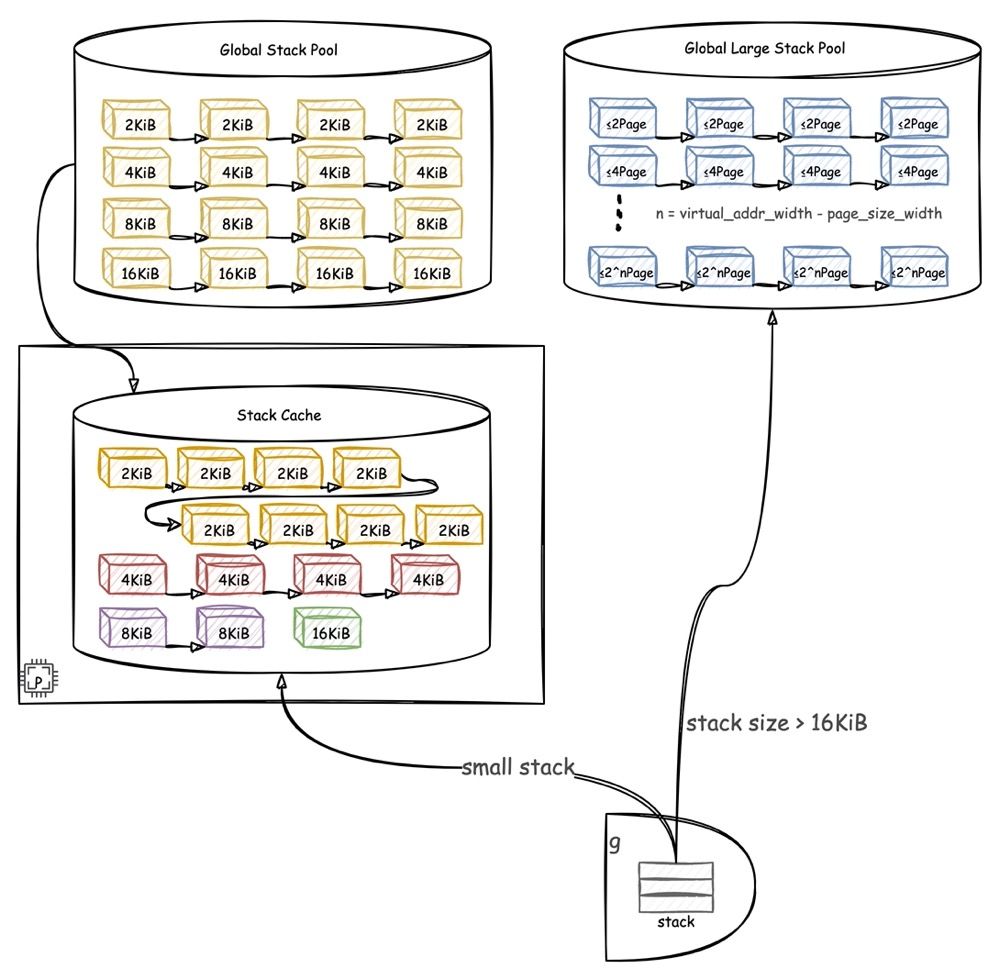
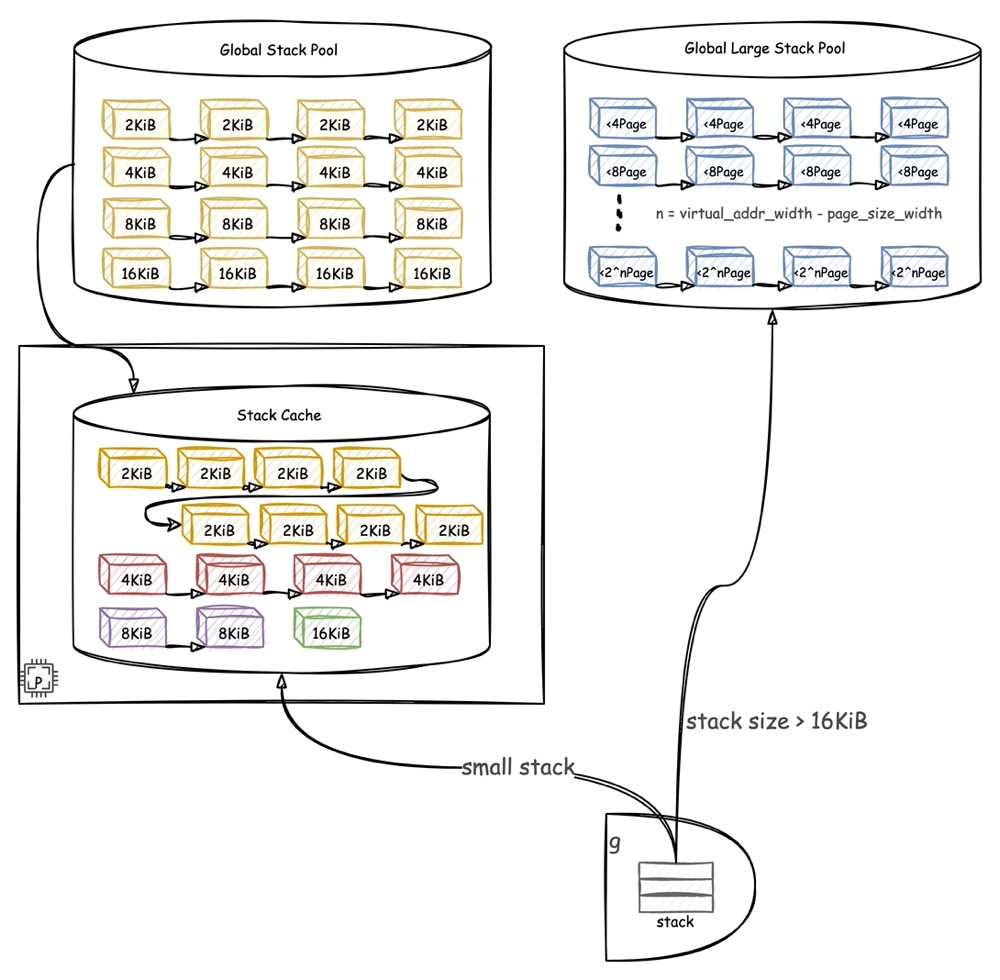
docs: update go runtime storage

diff --git a/source/_posts/go-runtime-storage.md b/source/_posts/go-runtime-storage.md
@@ -15,11 +15,92 @@ categories:
 
 <!-- more -->
 
+内存管理，主要可以分为两部分：内存分配和内存回收。
+
+在 Go 语言中，所有需要内存的地方，除了编译期可以确定的常量、变量值以外，其他的包括 goroutine 私有栈，堆以及一些 runtime 的结构，都需要在运行期间动态进行分配。相对应的，当内存不再使用的时候，也需要动态的回收。
+
+不过 Go 语言的内存分配完全不需要用户操心，Runtime 会帮助用户处理好与内存管理相关的一切。
+
+本文会先讨论 Go Runtime 使用的动态内存分配器；之后介绍所有需要动态分配内存的地方如栈、堆等等，具体是如何使用内存分配器分配内存的；关于内存的动态回收，将放在最后一部分讲解。
 
 
-## 1. Go 的内存划分
 
-### 1.1 进程内存
+## 1. 动态内存分配器
+
+### 1.1 为什么需要动态内存分配器？
+
+在讨论动态内存分配之前，我们可以先回顾一下操作系统的内存管理，并解释为什么不能简单的使用系统调用来管理进程内存。
+
+
+
+#### 虚拟内存抽象
+
+为了能让不同的进程能优雅的共享同一套存储硬件，多任务操作系统普遍采用了地址空间 + 虚拟内存的办法，对物理内存进行了抽象。
+
+<img src="https://upload.wikimedia.org/wikipedia/commons/6/6e/Virtual_memory.svg" style="zoom:50%;" />
+
+这种抽象的本质是把物理内存视为磁盘的缓存，而把磁盘视为主存。
+
+虚拟内存为多进程的并发执行带来了如下的好处：
+
+- 通过地址映射（mapping）技术，可以支持多进程独占地址空间的同时还能共享同一套硬件
+  - 每个进程都拥有自己的页表，用于记录进程虚拟地址与物理内存地址的映射关系
+  - 进程可以自由的在整个地址空间中申请并使用内存，而不必担心与其他进程产生冲突
+
+- 通过交换（swaping）技术，虚拟内存能够让进程可操作的地址空间远大于实际的物理内存
+  - 访问页表中不存在的映射触发缺页中断，操作系统从磁盘（主存）中加载数据到物理内存（缓存）
+  - 如果物理内存已满，则会通过页面置换算法将某些进程的某些页面淘汰到磁盘，而空出内存空间
+
+
+
+#### 内存布局
+
+为了方便对进程使用虚拟内存，操作系统还对整个进程的地址空间进行了分段，Linux 下进程的内存布局如下（图源：*CSAPP Figure 9.26*）：
+
+{% asset_img mem-layout.jpg %}
+
+Linux 进程的整个虚拟地址空间，从 0x400000 开始，到栈区高地址结束，更高的地址空间留给内核。
+
+进程内存段从低地址开始分别被划分为：
+
+- 代码段 `.text`
+- 已初始化数据段 `.data`
+- 未初始化数据段 `.bss`
+- 运行时堆 `heap`
+- 共享库内存映射区 `mmap`
+- 运行时栈 `stack`
+
+如上图所示，对于运行中的进程，如果对内存有需要时，可以有三种方式：
+
+1. 向低地址扩张栈指针，等同于分配栈空间
+2. 通过 brk 系统调用，向高地址扩张，分配堆空间
+3. 通过 mmap 系统调用，在内存映射区分配空间
+
+当然了，通过上述过程所分配的内存空间，在实际访问的那一刻之前，都没有实际分配，只有在访问时才会触发缺页中断。
+
+既然操作系统已经提供了这么多种内存分配的系统调用，我们为什么还要使用用户层代码来动态的管理内存呢？
+
+
+
+#### 动态内存管理
+
+首先需要明确的是，我们所谓的动态内存管理，通常都是用来管理堆内存。而动态内存管理需要解决的本质问题是在运行时对内存需求的不确定性。
+
+相反对于栈内存的分配和回收，通常在编译期就能明确栈空间所需的大小，因此就可以简单的通过操作 SP 指针来管理栈内存。
+
+
+
+### 1.2 不同的内存分配器算法
+
+
+
+### 1.3 Go 内存分配器设计
+
+
+
+## 2. Go 的内存划分
+
+### 2.1 进程内存
 
 不论 Go 在 Runtime 中如何组织 goroutine 的内存布局，从操作系统的视角来看，加载一个 Go 可执行文件，与加载其他可执行文件没什么区别，最终都会以进程的形式运行在操作系统上。
 
@@ -123,7 +204,7 @@ ffffffffff600000 r-xp 00000000  00:00      0      4     0     0          0      
    - 在之后的 [`setup_arg_pages()`](https://github.com/torvalds/linux/blob/1862a69c917417142190bc18c8ce16680598664b/fs/exec.c#L747) 中，对栈进行扩展，[扩展容量是硬编码的 128KiB](https://github.com/torvalds/linux/blob/1862a69c917417142190bc18c8ce16680598664b/fs/exec.c#L836)，4 + 128 = 132KiB，上面两个进程对栈的使用都没有超过 132KiB，所以 `[stack]` 都是 132KiB
    - 后文会提到，goroutine 的栈内存，也全都是从 `mmap()` 而来，只有主进程所在的 g0 栈直接使用系统栈，但 g0 限制了栈空间最大 8KiB，不会超出 132KiB
 
-### 1.2 栈内存
+### 2.2 栈内存
 
 在[本系列上一篇中](https://lenshood.github.io/2022/03/09/go-runtime-compute/)，我们已经知道，goroutine 持有自己的运行栈。
 
@@ -154,27 +235,17 @@ ffffffffff600000 r-xp 00000000  00:00      0      4     0     0          0      
 
 从前面可知，小栈空间单个最大空间块是 16KiB，所以如果需要超过 16KiB 的栈，就需要从 `large stack pool` 中申请。
 
-### 1.3 堆内存
+与小栈类似，存放大栈的`large stack pool` 也会分阶对内存块进行管理，只不过不再是按照 2 KiB 的幂次划分，而是按照 2 * Page 的幂次逐次递增。Go Runtime 定义一个 Page 的大小是 8192 Bytes，由于内存需求至少要 16 KiB 才会进入大栈分配，因此最少会分配 2 * Page。之后随着容量的增大，在 linux 下最高可以分配满 48bit 用户地址空间，即 2^35 个 Page。
+
+对于大栈空间，当`large stack pool` 对应阶链表中不存在所需内存块时，也会先从全局 heap 分配 nPage 的空间，待栈释放时，将该空间加入 `large stack pool `中备用。
 
 
 
-### 1.4 其他内存
+### 2.3 堆内存
 
 
 
-## 2. 内存分配器
-
-### 2.1 为什么要有内存分配器？
-
-
-
-### 2.2 不同的内存分配器算法
-
-
-
-### 2.3 Go 内存分配器设计
-
-
+### 2.4 其他内存
 
 
 
